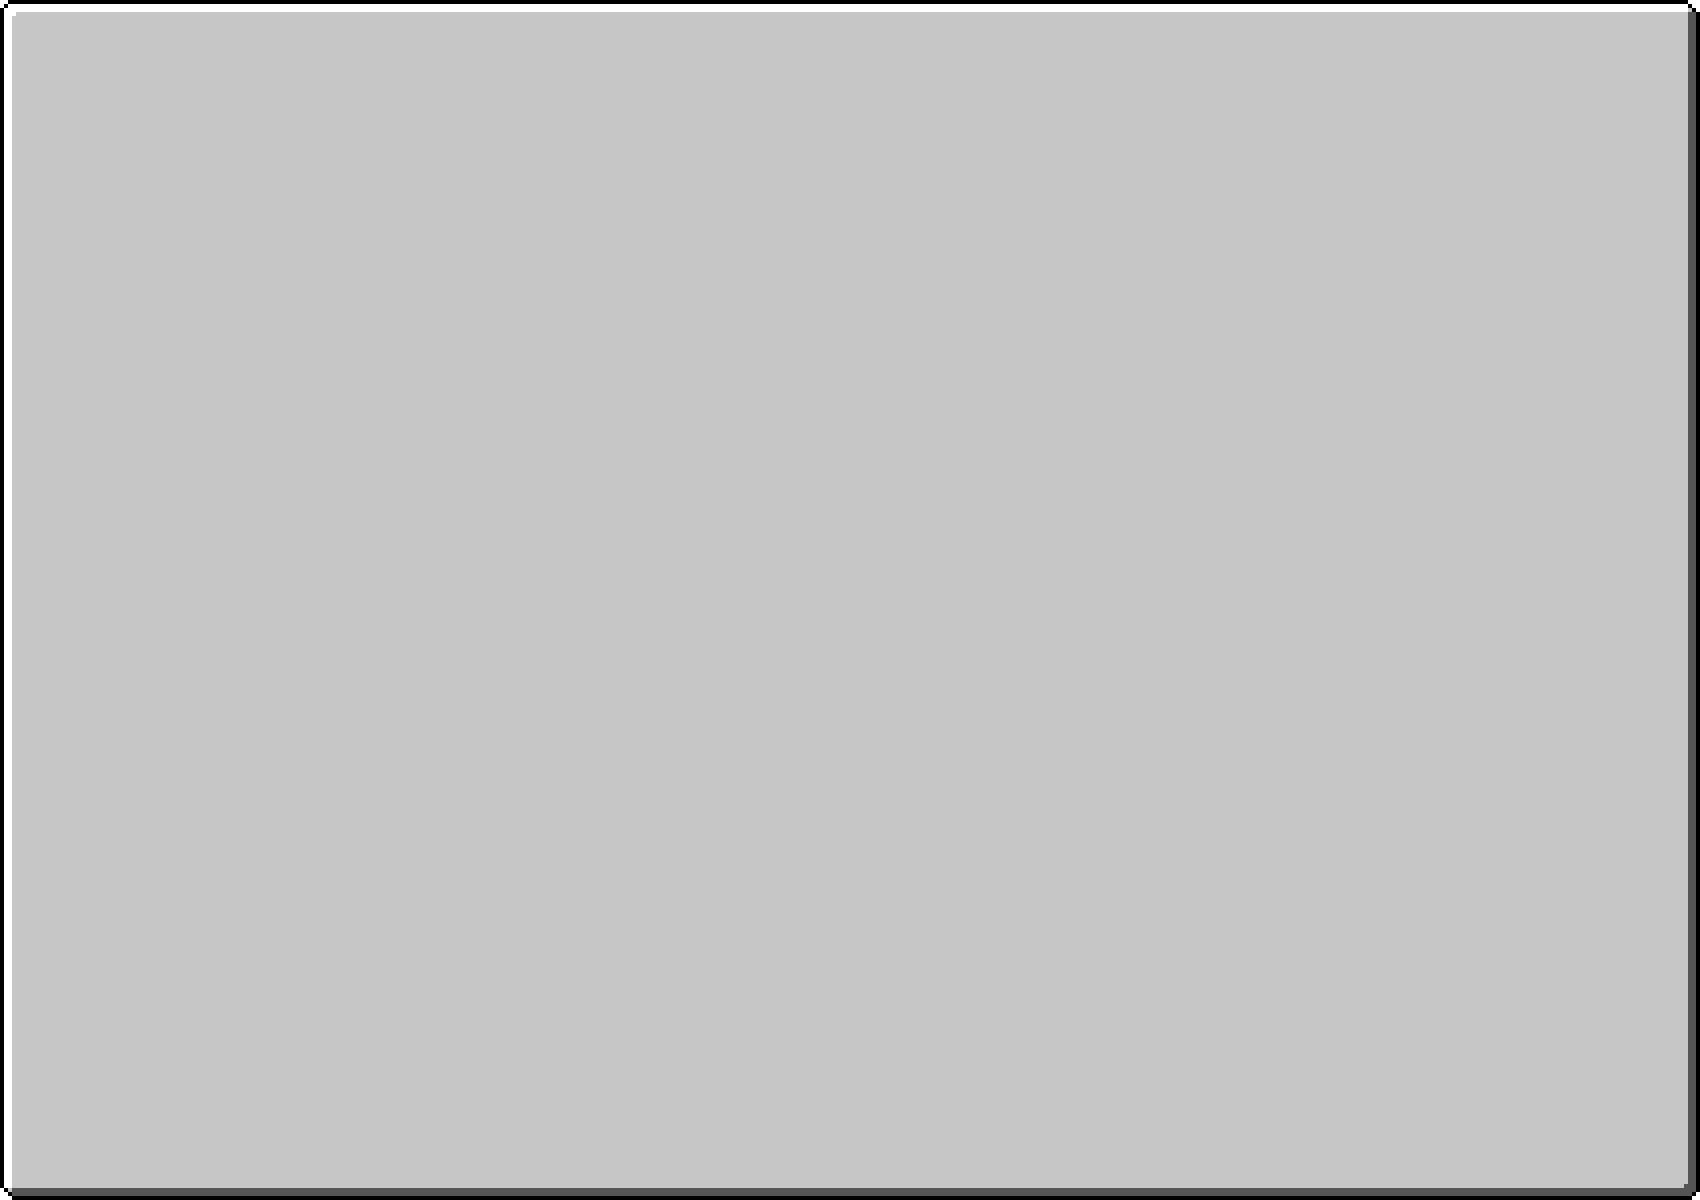
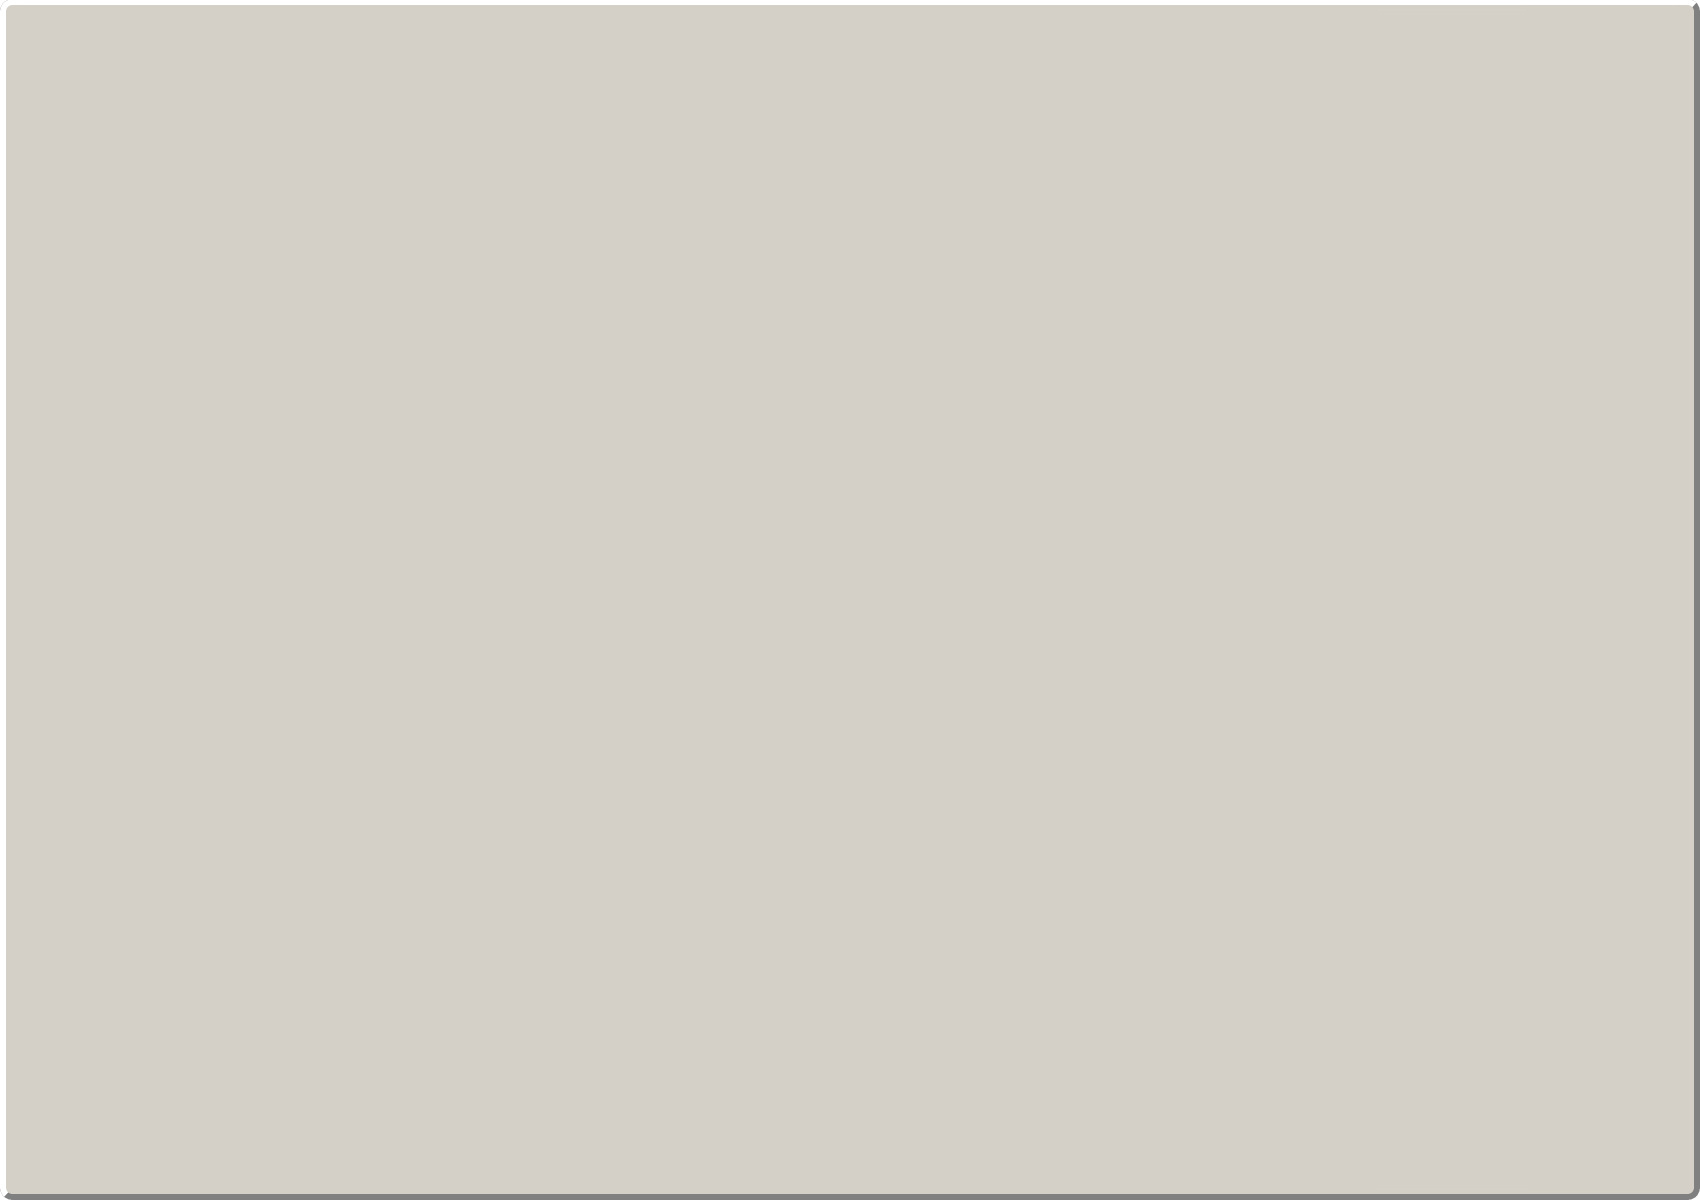
screenshot window

Changed region(s): [[0.0, 0.0, 1.0, 1.0]]

diff --git a/www/js/window/screenshot.js b/www/js/window/screenshot.js
@@ -6,7 +6,7 @@ export class ScreenshotWindow extends Window {
 
     constructor(player) {
 
-        super(10, 10, 400, 210, "frmScreenshot", null, null);
+        super(10, 10, 400, 420, "frmScreenshot", null, null);
 
         this.width *= this.zoom;
         this.height *= this.zoom;
@@ -19,22 +19,81 @@ export class ScreenshotWindow extends Window {
         ct.setBackground('./media/gui/form-empty.png');
         ct.hide();
 
-        // Add labels to window
-        ct.add(new Label(17 * this.zoom, 12 * this.zoom, 400 * this.zoom, 30 * this.zoom, 'lbl1', null, "You have taken a screenshot. Farther?"));
+        const PADDING = 20 * this.zoom;
 
-       this.addButton("Download screenshot", 50, () => {
-            Qubatch.render.screenshot(false, false); 
-            Qubatch.hud.wm.closeAll();
-        });
-        
-        this.addButton("Set as world cover", 100, () => {
-            Qubatch.render.screenshot(true, true);
-            Qubatch.hud.wm.closeAll();
-        });
-        
-        this.addButton("Upload to gallery", 150, () => {
-            Qubatch.render.screenshot(true, false);
-            Qubatch.hud.wm.closeAll();
+        // Append JSON layout
+        this.appendLayout({
+            vLayout: {
+                type: 'VerticalLayout',
+                x: PADDING,
+                y: PADDING,
+                width: this.width - PADDING * 2,
+                visible: true,
+                gap: 20,
+                enabled: false,
+                childs: {
+                    lblDesc: {
+                        type: 'Label',
+                        word_wrap: true,
+                        title: null,
+                        text: 'You have taken a screenshot. Farther?',
+                        style: {
+                            font: {size: 17 * this.zoom},
+                            background: {color: '#00000000'}
+                        }
+                    },
+                    lblPreview: {
+                        type: 'Label',
+                        word_wrap: true,
+                        height: 200 * this.zoom,
+                        title: Lang.loading,
+                        autosize: false,
+                        style: {
+                            padding: 0,
+                            font: {size: 17 * this.zoom},
+                            textAlign: {
+                                horizontal: 'center',
+                                vertical: 'middle'
+                            },
+                            background: {
+                                color: '#00000044',
+                                image_size_mode: 'cover', // none | stretch | cover
+                                image: null
+                            }
+                        }
+                    },
+                    btnDownload: {
+                        type: 'Button',
+                        title: 'Download screenshot',
+                        height: 40 * this.zoom,
+                        autosize: false,
+                        onMouseDown: () => {
+                            Qubatch.hud.wm.closeAll();
+                            Helpers.downloadBlobPNG(this.screenshot_blob, 'screenshot.webp');
+                        }
+                    },
+                    btnSetCover: {
+                        type: 'Button',
+                        title: 'Set as world cover',
+                        height: 40 * this.zoom,
+                        autosize: false,
+                        onMouseDown: () => {
+                            Qubatch.hud.wm.closeAll();
+                            this.send(true);
+                        }
+                    },
+                    btnSaveToGallery: {
+                        type: 'Button',
+                        title: 'Upload to gallery',
+                        height: 40 * this.zoom,
+                        autosize: false,
+                        onMouseDown: () => {
+                            Qubatch.hud.wm.closeAll();
+                            this.send(false);
+                        }
+                    }
+                }
+            }
         });
 
         // Обработчик открытия формы
@@ -51,12 +110,11 @@ export class ScreenshotWindow extends Window {
             // Add buttons
             const ct = this;
             // Close button
-            let btnClose = new Button(ct.width - this.cell_size, 12 * this.zoom, 20 * this.zoom, 20 * this.zoom, 'btnClose', '');
+            let btnClose = new Button(ct.width - 40 * this.zoom, 15 * this.zoom, 20 * this.zoom, 20 * this.zoom, 'btnClose', '');
             btnClose.style.font.family = 'Arial';
             btnClose.style.background.image = image;
-            btnClose.style.background.image_size_mode = 'stretch';
-            btnClose.onMouseDown = function(e) {
-                console.log(e);
+            // btnClose.style.background.image_size_mode = 'stretch';
+            btnClose.onDrop = btnClose.onMouseDown = function(e) {
                 ct.hide();
             }
             ct.add(btnClose);
@@ -81,21 +139,41 @@ export class ScreenshotWindow extends Window {
             return false;
         }
     }
-    
-    addButton(label, y, onclick) {
-        const btnID = `btn_${this.id}_${y}`;
-        let btn = new Button(20 * this.zoom, y * this.zoom, this.width - 40 * this.zoom, 40 * this.zoom, btnID, label);
-        btn.style.background.color = '#777777ff';
-        btn.style.color = '#ffffffff';
-        btn.style.font.shadow = {
-            enable: true,
-            x: 2 * this.zoom,
-            y: 2 * this.zoom,
-            blur: 0,
-            color: 'rgba(0, 0, 0, 0.5)'
-        }
-        btn.onMouseDown = onclick;
-        this.add(btn);
+
+    // Make screenshot
+    make() {
+        const ql = this.getWindow('vLayout');
+        const lblPreview = ql.getWindow('lblPreview');
+        lblPreview.title = Lang.loading;
+        Qubatch.render.screenshot((blob) => {
+            this.show();
+            const fileFromBlob = new File([blob], 'image.webp', {type: 'image/webp'});
+            this.screenshot_blob = blob
+            this.screenshot_file = fileFromBlob;
+            ql.enabled = true;
+            const img = new Image();
+            img.onload = function() {
+                lblPreview.title = '';
+                lblPreview.style.background.image = img;
+            }
+            img.src = URL.createObjectURL(fileFromBlob);
+
+        });
+    }
+
+    // Send screenshot to server
+    send(as_cover) {
+        const form = new FormData();
+        form.append('file', this.screenshot_file);
+        form.append('world_id', Qubatch.world.info.guid);
+        form.append('as_cover', as_cover);
+        Qubatch.App.Screenshot(form, function(result) {
+            if (result.result == "ok") {
+                vt.success("Screenshot upload to server");
+            } else {
+                vt.error("Error upload screenshot");
+            }
+        });
     }
 
 }

diff --git a/www/tools/gui/wm.js b/www/tools/gui/wm.js
@@ -31,6 +31,8 @@ export class Window {
         this.parent         = null;
         this.scrollX        = 0;
         this.scrollY        = 0;
+        this.autosize       = true;
+        this.enabled        = true;
         this.max_chars_per_line = 0;
         this.onHide         = function() {};
         this.onShow         = function() {};
@@ -649,11 +651,16 @@ export class Window {
                     control = new Label(cl.x, cl.y, cl.width | 0, cl.height | 0, id, cl?.title, cl?.text);
                     break;
                 }
+                case 'Button': {
+                    control = new Button(cl.x, cl.y, cl.width | 0, cl.height | 0, id, cl?.title, cl?.text);
+                    break;
+                }
             }
             if(control) {
                 if(cl.style) {
                     control.assignStyles(cl.style);
                 }
+                // set other props
                 for(let prop in cl) {
                     if(ignored_props.indexOf(prop) < 0) {
                         control[prop] = cl[prop];
@@ -682,6 +689,53 @@ export class Window {
                 }
                 case 'stretch': {
                     this.ctx.drawImage(val.image, 0, 0, iw, ih, x, y, w, h);
+                    break;
+                }
+                case 'cover': {
+                    /**
+                     * By Ken Fyrstenberg Nilsen
+                     * drawImageProp(context, image [, x, y, width, height [,offsetX, offsetY]])
+                     * If image and context are only arguments rectangle will equal canvas
+                    */
+                    function drawImageProp(ctx, img, x, y, w, h, offsetX, offsetY) {
+                        if (arguments.length === 2) {
+                            x = y = 0;
+                            w = ctx.canvas.width;
+                            h = ctx.canvas.height;
+                        }
+                        // default offset is center
+                        offsetX = typeof offsetX === "number" ? offsetX : 0.5;
+                        offsetY = typeof offsetY === "number" ? offsetY : 0.5;
+                        // keep bounds [0.0, 1.0]
+                        if (offsetX < 0) offsetX = 0;
+                        if (offsetY < 0) offsetY = 0;
+                        if (offsetX > 1) offsetX = 1;
+                        if (offsetY > 1) offsetY = 1;
+                        var iw = img.width,
+                            ih = img.height,
+                            r = Math.min(w / iw, h / ih),
+                            nw = iw * r,   // new prop. width
+                            nh = ih * r,   // new prop. height
+                            cx, cy, cw, ch, ar = 1;
+                        // decide which gap to fill    
+                        if (nw < w) ar = w / nw;                             
+                        if (Math.abs(ar - 1) < 1e-14 && nh < h) ar = h / nh;  // updated
+                        nw *= ar;
+                        nh *= ar;
+                        // calc source rectangle
+                        cw = iw / (nw / w);
+                        ch = ih / (nh / h);
+                        cx = (iw - cw) * offsetX;
+                        cy = (ih - ch) * offsetY;
+                        // make sure source rectangle is valid
+                        if (cx < 0) cx = 0;
+                        if (cy < 0) cy = 0;
+                        if (cw > iw) cw = iw;
+                        if (ch > ih) ch = ih;
+                        // fill image in dest. rectangle
+                        ctx.drawImage(img, cx, cy, cw, ch,  x, y, w, h);
+                    }
+                    drawImageProp(this.ctx, val.image, x, y, w, h, 0.5, 0.5);
                     break;
                 }
                 case 'sprite': {
@@ -853,7 +907,7 @@ class Tooltip extends Label {
         }
         this.applyStyle(ctx, ax, ay);
         //
-        if(this.need_update_size) {
+        if(this.need_update_size && this.autosize) {
             this.need_update_size = false;
             let mt = ctx.measureText(this.text);
             this.width = mt.width + this.style.padding.left + this.style.padding.right;
@@ -1036,6 +1090,7 @@ export class VerticalLayout extends Window {
         super(x, y, w, 0, id, null, null);
         this.style.background.color = '#00000000';
         this.style.border.hidden = true;
+        this.gap = 0;
     }
 
     refresh() {
@@ -1045,10 +1100,10 @@ export class VerticalLayout extends Window {
             w.y = y;
             w.width = this.width;
             w.updateMeasure(this.getRoot().ctx);
-            if(w.__measure.text?.height) {
+            if(w.__measure.text?.height && w.autosize) {
                 w.height = w.__measure.text?.height + (w.style.padding.top + w.style.padding.bottom);
             }
-            y += w.height;
+            y += w.height + this.gap;
         }
         this.calcMaxHeight();
         this.height = this.max_height;

diff --git a/www/js/renders/webgl/index.js b/www/js/renders/webgl/index.js
@@ -550,7 +550,12 @@ export default class WebGLRenderer extends BaseRenderer {
         return buffer;
     }
 
-    async screenshot(world, upload, cover) {
+    /**
+     * 
+     * @param {string} format 
+     * @param {Function} callback 
+     */
+    async screenshot(format, callback) {
         const buffer = this.toRawPixels();
         const width = this.view.width;
         const height = this.view.height;
@@ -570,33 +575,15 @@ export default class WebGLRenderer extends BaseRenderer {
                 buffer.subarray(invi * width * 4, (invi + 1) * width * 4),
                 i * width * 4);
         }
-        
         const canvas = document.createElement('canvas');
         const ctx = canvas.getContext('2d');
         ctx.canvas.width = width;
         ctx.canvas.height = height;
         ctx.putImageData(data, 0, 0);
         ctx.drawImage(Qubatch.hud.canvas, 0, 0, width, height);
-        if (upload && world) {
-            ctx.canvas.toBlob(function(blob) {
-                const fileFromBlob = new File([blob], 'image.webp', {type: 'image/webp'});
-                const form = new FormData();
-                form.append('body', fileFromBlob);
-                form.append('world', world);
-                form.append('cover', cover);
-                Qubatch.App.Screenshot(form, function(result){
-                    if (result.result == "ok") {
-                        vt.success("Screenshot upload to server");
-                    } else {
-                        vt.error("Error upload screenshot");
-                    }
-                });
-            }, 'image/webp');
-        } else {
-            ctx.canvas.toBlob(function(blob) {
-                Helpers.downloadBlobPNG(blob, 'screenshot.png');
-            }, 'image/png');
-        }
+        ctx.canvas.toBlob(function(blob) {
+            callback(blob);
+        }, format);
     }
 
 }

diff --git a/node_server/server_api.js b/node_server/server_api.js
@@ -82,14 +82,15 @@ export class ServerAPI {
             case '/api/Game/Screenshot': {
                 const session = await Qubatch.db.GetPlayerSession(session_id);
                 if (req.files && session) {
-                    const guid = req.body.world.replace(/[^a-z0-9-]/gi, '').substr(0, 36);
-                    const title = await Qubatch.db.InsertScreenshot(guid, req.body.cover == 'true' ? true : false);
+                    const params = req.body;
+                    const world_id = params.world_id.replace(/[^a-z0-9-]/gi, '').substr(0, 36);
+                    const title = await Qubatch.db.InsertScreenshot(world_id, params.as_cover == 'true' ? true : false);
                     if (title) {
-                        const path = '../world/' + guid + '/screenshot/';
+                        const path = '../world/' + world_id + '/screenshot/';
                         if (!fs.existsSync(path)) {
                             fs.mkdirSync(path, {recursive: true});
                         }
-                        const file = req.files.body;
+                        const file = req.files.file;
                         file.mv(path + title);
                         return {'result':'ok'};
                     }

diff --git a/www/js/render.js b/www/js/render.js
@@ -724,8 +724,9 @@ export class Renderer {
 
         // 5. Screenshot
         if(this.make_screenshot) {
-            this.make_screenshot = false;
-            this.renderBackend.screenshot(this.player.world.info.guid, this.upload_screenshot, this.cover_screenshot);
+            const callback = this.make_screenshot;
+            delete(this.make_screenshot);
+            this.renderBackend.screenshot('image/webp', callback);
         }
 
         renderBackend.endPass();
@@ -1160,10 +1161,8 @@ export class Renderer {
         }
     }
 
-    screenshot(upload, cover) {
-        this.cover_screenshot = cover;
-        this.upload_screenshot = upload;
-        this.make_screenshot = true;
+    screenshot(callback) {
+        this.make_screenshot = callback;
     }
 
     downloadTextImage() {

diff --git a/www/js/game.js b/www/js/game.js
@@ -197,9 +197,7 @@ export class GameClass {
                     case KEY.F2: {
                         if(!e.down) {
                             if(!this.hud.wm.hasVisibleWindow() && this.player.session.user_id == this.world.info.user_id) {
-                                Qubatch.hud.wm.getWindow('frmScreenshot').toggleVisibility();
-                            } else {
-                                this.render.screenshot(false);
+                                Qubatch.hud.wm.getWindow('frmScreenshot').make();
                             }
                         }
                         return true;
